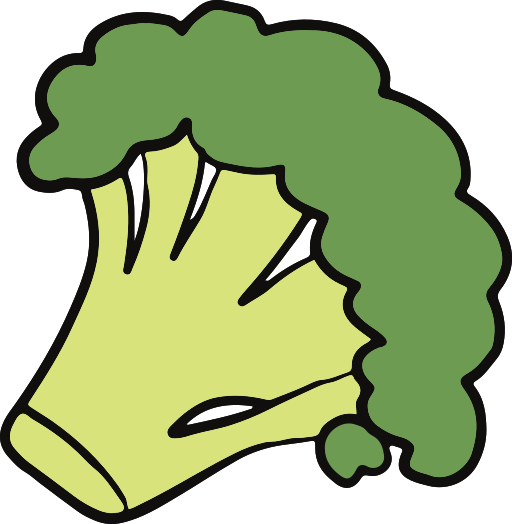
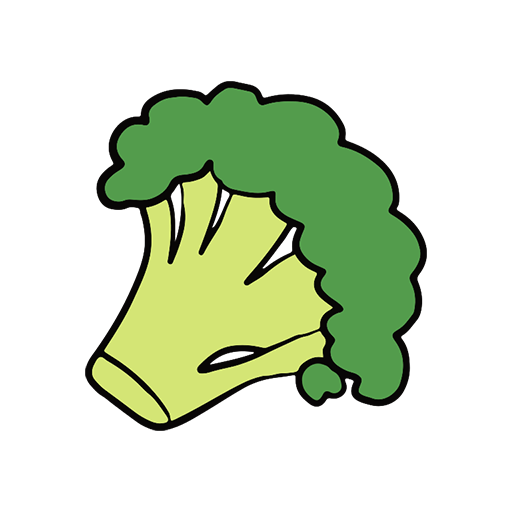
feat: added 2 more fruits. fixed bug

diff --git a/src/views/HomeView.vue b/src/views/HomeView.vue
@@ -1,5 +1,5 @@
 <script setup>
-import FuildAnimation from '../components/FuildAnimation.vue';
+import FruitImage from '../components/FruitImage.vue';
 import ChangeTheme from '../components/ChangeTheme.vue';
 import TimerLayout from '../components/TimerLayout.vue';
 
@@ -13,9 +13,11 @@ const imgUpdate = (e) => {
 </script>
 
 <template>
-  <div class="main flex items-center border justify-around">
-    <ChangeTheme @update-img="imgUpdate"/>
-    <FuildAnimation :imgName="imgName"/>
+  <div class="main flex items-center justify-around">
+    <div class="w-2/4 h-full flex flex-col">
+      <ChangeTheme @update-img="imgUpdate"/>
+      <FruitImage v-if="imgName" :imgName="imgName"/>
+    </div>
     <TimerLayout />
   </div>
 </template>

diff --git a/src/components/FruitImage.vue b/src/components/FruitImage.vue
@@ -1,0 +1,45 @@
+<script setup>
+defineProps({
+  imgName: {
+    type: String,
+    required: true
+  }
+});
+
+</script>
+
+<template>
+  <div class="overflow-hidden h-fit select-none">
+    <img 
+      :src="`/img/${imgName}`"
+      alt="icon"
+      class="
+      img transition
+      scale-105 hover:scale-110
+      hover:rotate-12
+      "
+    >
+  </div>
+  <!-- <PlumIcon class="w-1/3" /> -->
+</template>
+
+<style scoped>
+.img{
+  width: 100%;
+  height: 100%;
+  object-fit: contain;
+  animation: activeState 3s ease-in-out infinite;
+}
+
+@keyframes activeState {
+  0%{
+    transform: rotate(30deg);
+  }
+  50%{
+    transform: rotate(-30deg); 
+  }
+  100%{
+    transform: rotate(30deg);
+  }
+}
+</style>

diff --git a/src/components/ChangeTheme.vue b/src/components/ChangeTheme.vue
@@ -27,12 +27,12 @@ const setTheme = (themeName) => {
 }
 
 const nextTheme =() => {
-  index.value++;
   const keys = Object.keys(themes);
   const next = keys[index.value];
 
   if(next){
     setTheme(next);
+    index.value++;
     return
   }
   else if(keys.length > 0){
@@ -55,6 +55,6 @@ onMounted(()=>{
 </script>
 
 <template>
-  <div class="w-10 h-10 border" @click="nextTheme()"></div>
+  <div class="fixed w-2/4 h-1/6 z-10 border" @click="nextTheme()"></div>
   <!-- sdds -->
 </template>

diff --git a/index.html b/index.html
@@ -2,7 +2,6 @@
 <html lang="en">
   <head>
     <meta charset="UTF-8" />
-    <link rel="icon" type="image/svg+xml" href="/vite.svg" />
     <meta name="viewport" content="width=device-width, initial-scale=1.0" />
     <title>Pomodoro</title>
   </head>
